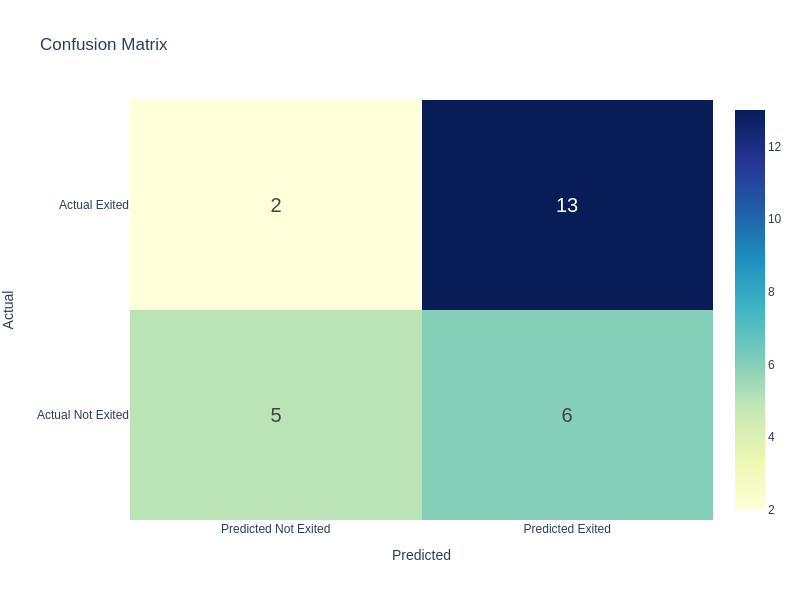
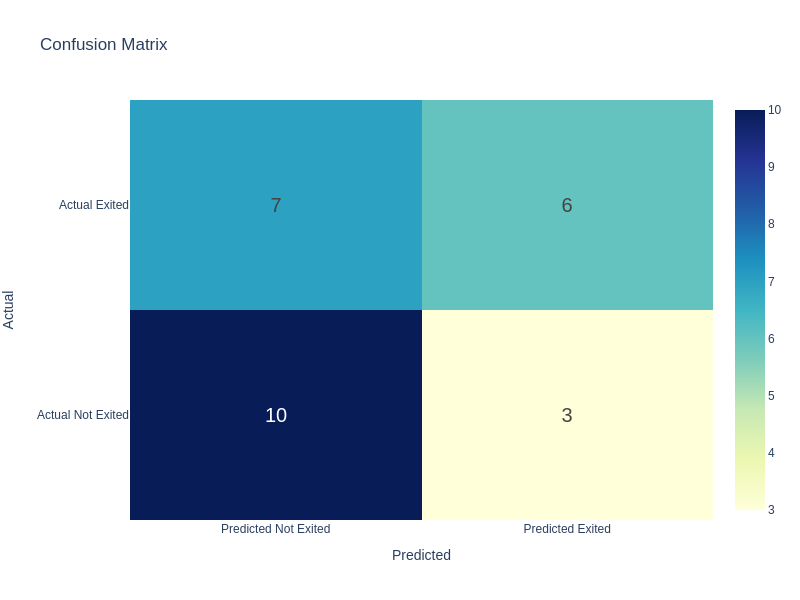
add auc curve plot

diff --git a/reporting.py b/reporting.py
@@ -9,8 +9,9 @@ import json
 import os
 import logging
 import pandas as pd
-from sklearn import metrics
+from sklearn.metrics import confusion_matrix, roc_curve, auc
 import plotly.graph_objects as go
+import plotly.express as px
 from diagnostics import model_predictions
 
 logging.basicConfig(
@@ -21,7 +22,7 @@ logging.basicConfig(
 )
 
 
-def score_model(
+def create_plots(
     dff: pd.DataFrame,
     output_folder_path: str,
     prod_deployment_path: str
@@ -56,31 +57,66 @@ def score_model(
     logging.info('Generating confusion matrix in Plotly')
     print('dff exited type: ', dff['exited'].dtype)
     print('preds type: ', preds.dtype)
-    fig = go.Figure()
-    fig.add_trace(go.Heatmap(
-        z=metrics.confusion_matrix(dff['exited'].astype(int), preds),
+
+    y_test = dff['exited'].astype(int)
+
+    fig_cm = go.Figure()
+    fig_cm.add_trace(go.Heatmap(
+        z=confusion_matrix(y_test, preds),
         x=['Predicted Not Exited', 'Predicted Exited'],
         y=['Actual Not Exited', 'Actual Exited'],
-        text=metrics.confusion_matrix(dff['exited'].astype(int), preds),
+        text=confusion_matrix(y_test, preds),
         texttemplate="%{text}",
         textfont={"size": 20},
         colorscale='YlGnBu')
         )
-    fig.update_layout(
+    fig_cm.update_layout(
         title='Confusion Matrix',
         xaxis_title='Predicted',
         yaxis_title='Actual'
         )
 
     logging.info('Saving confusion matrix to %s', output_folder_path)
-    fig.write_image(
+    fig_cm.write_image(
         os.path.join(output_folder_path, 'confusionmatrix.png'),
         format='png',
         width=800, height=600)
 
-    # TODO: write json format for dashboard
     logging.info('Finished generating confusion matrix')
-    return fig
+
+    # load deployed model
+    # with open(prod_deployment_path + 'trainedmodel.pkl', 'rb') as pkl:
+    #     MODEL = pkl.load(f)
+
+    # y_pred = MODEL.predict_proba(X_test)[:, 1]
+    fpr, tpr, thresholds = roc_curve(y_test, preds, pos_label=1)
+    fig_auc = px.area(
+            x=fpr,
+            y=tpr,
+            title=f'Logistic Regression<br><sub>ROC Curve (AUC={auc(fpr, tpr):.4f})',
+            labels=dict(x='False Positive Rate',
+                        y='True Positive Rate'),
+            width=600,
+            height=800
+    )
+    fig_auc.add_shape(
+            type='line',
+            line=dict(dash='dash'),
+            x0=0,
+            x1=1,
+            y0=0,
+            y1=1
+    )
+
+    fig_auc.update_yaxes(scaleanchor="x", scaleratio=1)
+    fig_auc.update_xaxes(constrain='domain')
+
+    # TODO: write json format for dashboard
+    fig_auc.write_image(
+        os.path.join(output_folder_path, 'auc.png'),
+        format='png',
+        width=800, height=600)
+    return fig_cm, fig_auc
 
 
 if __name__ == '__main__':
@@ -94,5 +130,6 @@ if __name__ == '__main__':
     TEST_DATA = os.path.join(config['test_data_path'])
     DFF = pd.read_csv(TEST_DATA + '/testdata.csv')
 
-    FIG = score_model(DFF, OUTPUT, MODEL)
+    FIG, FIG2 = score_model(DFF, OUTPUT, MODEL)
     FIG.show()
+    FIG2.show()

diff --git a/fullprocess.py b/fullprocess.py
@@ -14,7 +14,7 @@ from ingestion import merge_multiple_dataframe
 from training import train_model
 from scoring import score_model
 from deployment import store_model_into_pickle
-from reporting import score_model
+from reporting import create_plots
 from apicalls import get_data
 
 logging.basicConfig(
@@ -31,7 +31,6 @@ DEPLOY_PATH = os.path.join(config['prod_deployment_path'])
 INPUT_PATH = os.path.join(config['input_folder_path'])
 OUTPUT_PATH = os.path.join(config['output_folder_path'])
 OUTPUT_MODEL_PATH = os.path.join(config['output_model_path'])
-REPORT_PATH = os.path.join(config['report_path'])
 TEST_DATA_PATH = os.path.join(config['test_data_path'])
 EXT = config['input_file_extension']
 URL = config['url']
@@ -89,5 +88,5 @@ else:
 if model_drift is True:
     train_model(OUTPUT_PATH, OUTPUT_MODEL_PATH)
     store_model_into_pickle(OUTPUT_PATH, OUTPUT_MODEL_PATH, DEPLOY_PATH)
-    get_data(REPORT_PATH, URL)
-    score_model(df, REPORT_PATH, DEPLOY_PATH)
+    get_data(OUTPUT_MODEL_PATH, URL)
+    create_plots(df, OUTPUT_MODEL_PATH, DEPLOY_PATH)
